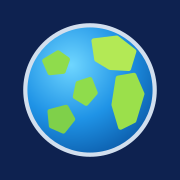
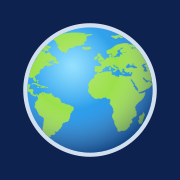
nuevo icono y pantalla de inicio

Changed region(s): [[0.1389, 0.1667, 0.8611, 0.8611]]

diff --git a/src/data/land.ts b/src/data/land.ts
@@ -1,0 +1,2 @@
+// Generado por scripts/make-land.mjs. No lo edites a mano.
+export const LAND_PATH = "M112.3 143.9L113.6 144.5L115 144.7L114.5 145.2L113.6 145.3L113 144.9L112.7 145.3L111.9 145.6L110.8 145.5L110 145.2L109 145.1L107.7 144.5L106.7 144L105.3 142.8L106.2 143L107.6 143.7L108.9 144.1L109.4 143.6L109.7 142.9L110.7 142.5L111.4 142.6L111.8 143.1L112.3 143.9ZM121.5 141.1L122.3 141.6L122 141.9L120.6 142.2L120.2 141.9L119.3 142.3L118.8 141.9L120 141.3L120.9 141.5L121.5 141.1ZM250.3 139.7L248.7 139.8L248.7 139.2L248.9 138.8L248.9 138.6L249.6 138.9L250.5 139.1L250.6 139.3L250.3 139.7ZM325.4 130.8L326.4 131.1L326.9 131L327.7 130.8L328.3 130.9L328.4 132.1L328 132.4L327.9 133.2L327.6 132.9L326.9 133.6L326.7 133.6L326 133.5L325.4 132.7L325.3 132L324.7 131.2L324.7 130.7L325.4 130.8ZM353 130.9L354 130.9L354.2 131.8L353.2 133L353.1 133.9L351.5 134.2L350.6 135.9L349.8 136.4L348.4 136.6L346.7 136.2L347 135.1L348.3 134.1L349.7 133.6L350.5 133L351.6 131.8L352.1 131L352.8 130.5L353 130.9ZM354.6 126.2L355.3 127.2L356.8 127.9L358 127.6L358.3 128.6L357.2 129.1L356.9 130.1L356 131.3L355.2 131.7L355.2 130.5L353.8 129.5L354.6 128.8L354.7 127.4L354.3 126.5L353.1 125.2L352.6 124.5L353.6 125L354.3 125.3L354.6 126.2ZM347.1 112.2L346.7 112.4L346.2 112.1L345.5 111.7L344.8 111.1L344.2 110.4L344 110.1L344.5 110.1L345 110.5L345.5 110.8L345.8 111.1L346.6 111.7L347.1 112.2ZM358.4 107.3L358.7 107.6L358.6 108.2L357.9 108.3L357.4 108.2L357.3 107.7L357.7 107.4L358.1 107.5L358.4 107.3ZM359.4 106.8L358.7 107L358.6 106.6L359.1 106.4L359.4 106.4L360 106.1L360 106.6L359.4 106.8ZM0.1 106.5L0 106.6L0 106.1L0.2 106L0.1 106.5ZM347.8 106.5L347.5 106.6L347.2 106.2L347.2 105.9L347.8 106.5ZM347.1 104.9L347.3 105.7L347 105.6L346.8 105.7L346.6 105.4L346.6 104.6L347.1 104.9ZM230.1 103.6L230.2 104.8L230.4 105.7L229.9 106.5L229.4 108L229 109.1L228.5 110.5L227.9 112.4L227.5 113.8L227.1 114.9L226.3 115.2L225.4 115.6L224 115L223.7 113.6L223.3 112.8L223.4 111.3L224.4 110.1L224.2 109L224 107.4L224.4 106.2L225.5 106L226.3 105.8L226.9 105.2L227.7 104.6L227.9 103.7L228.8 103.1L229.2 102L229.8 102.9L230.1 103.6ZM323.6 103.8L323.9 104.5L324.9 104.6L325.3 105.4L325.5 106.3L326.2 107.8L326.4 109L327.5 109.5L328.2 110L328.7 110.6L329.3 111.3L329.7 112.3L330.5 112.6L330.9 113.5L331.6 114.1L332.9 115.3L333.1 116.1L333.1 117.3L333.6 118.1L333.5 119L333.1 120.4L332.9 121.6L332.5 122.6L331.7 123L331.3 123.8L330.7 125.2L330.1 126.4L330 127.4L328.3 127.8L327.4 128.2L326.3 129L325.5 128.6L325 127.9L323.6 128.8L322.7 128.5L321.6 128.3L320.6 128L320 127.4L319.6 126.1L318.1 125.6L318.2 124.4L317.7 125.1L316.8 125.3L317.5 124.1L317.8 122.9L317 123.8L316 124.9L315.2 124.5L314.6 123.2L313 122L311.3 121.5L309.5 121.6L308.2 121.9L307.1 122.3L306.1 122.2L305.1 122.7L304.2 123L303.7 123.9L302.8 123.9L301.3 123.8L299.9 124L299 124.5L298 125.1L296.6 125L295.6 124.4L295 123.6L295.7 122.9L295.7 121.6L295.2 120.6L295 119.5L294.6 118.5L294 117.3L293.5 116.5L293.4 115.6L294.2 116.3L293.7 115L293.5 113.8L293.8 113.1L294.1 111.8L295.5 111.5L296.7 110.7L298.2 110.4L299 110L299.8 110L300.9 109.7L301.7 108.7L302.3 107.8L303 106.4L303.4 107.3L303.8 106.1L304.9 105.1L305.7 104.5L306.6 104L307.8 104.3L308.4 104.9L309.6 105L309.9 103.6L310.6 102.5L311.7 102.3L312.6 102.1L311.8 101.3L313 101.4L314.4 102L315.3 102.2L316.3 102L316.7 102.9L316 103.3L315.8 104.2L315.5 105L316.3 105.6L317.1 105.9L318.3 106.8L319.1 107.1L320.2 107.7L321.1 106.8L321.4 105.8L321.7 105L321.5 103.7L321.8 102.7L321.9 101.9L322.1 101L322.9 101.8L323.5 102.8L323.6 103.8ZM342.1 100.5L342.4 100.8L341.7 100.8L341.3 100.2L341.9 100.4L342.1 100.5ZM300.7 100.2L300.3 100.3L299 99.6L299.9 99.4L300.4 99.7L300.8 100L300.7 100.2ZM340.9 99.9L340.5 99.9L339.8 99.8L339.6 99.6L339.7 99.2L340.4 99.4L340.7 99.6L340.9 99.9ZM341.7 99.6L341.5 99.8L340.8 98.9L340.6 98.3L340.9 98.3L341.3 99.1L341.7 99.6ZM304.4 100.1L303.6 100.4L303.5 100.2L303.6 99.9L304 99.3L305 98.9L305.1 98.7L305.9 98.4L306.6 98.4L307 98.3L307.3 98.4L307 98.7L305.9 99.1L305.1 99.4L304.4 100.1ZM297.9 98.1L298.3 98.4L298.9 98.3L299.1 98.7L298 98.9L297.3 99L296.7 99L297.1 98.5L297.6 98.4L297.9 98.1ZM302.9 98.1L302.8 98.6L301.3 98.9L299.9 98.8L299.9 98.4L300.7 98.2L301.3 98.5L302 98.5L302.9 98.1ZM339.9 98.3L339.9 98.5L339.1 98.1L338.6 97.8L338.2 97.4L338.4 97.3L338.8 97.6L339.6 98L339.9 98.3ZM337.5 97.3L337.3 97.4L336.9 97.2L336.5 96.8L336.5 96.6L337.1 97L337.5 97.3ZM288.6 96.8L290.5 96.9L290.8 96.5L292.6 96.9L293 97.6L294.5 97.8L295.7 98.4L294.6 98.8L293.5 98.3L292.6 98.4L291.5 98.3L290.6 98.1L289.4 97.7L288.7 97.6L288.3 97.8L286.5 97.4L286.3 96.9L285.4 96.9L286.1 95.9L287.3 96L288.1 96.3L288.5 96.4L288.6 96.8ZM314.7 96.2L314.2 96.9L314.1 96.1L314.3 95.8L314.5 95.4L314.7 95.7L314.7 96.2ZM335.9 96.8L335.6 96.9L335.2 96.5L334.7 95.9L334.5 95.1L334.7 95L334.8 95.3L335.1 95.6L335.5 96.2L336 96.5L335.9 96.8ZM332 95.5L331.5 95.6L331.3 95.8L330.8 96.1L330.2 96.3L329.7 96.3L328.9 96L328.3 95.7L328.4 95.4L329.3 95.6L329.8 95.5L330 95L330.1 95L330.2 95.5L330.8 95.5L331.1 95.1L331.6 94.8L331.5 94.2L332.1 94.1L332.3 94.3L332.3 94.9L332 95.5ZM307.2 93.5L306.9 93.8L306.2 93.6L306 93.2L307 93.1L307.2 93.5ZM310.5 93.1L310.8 93.9L310 93.4L309.2 93.4L308.6 93.4L307.9 93.4L308.1 92.8L309.4 92.8L310.5 93.1ZM333.1 94.5L332.8 94.8L332.6 94.2L332.4 93.8L332 93.5L331.4 93L330.7 92.7L330.9 92.5L331.5 92.8L331.8 93L332.2 93.2L332.6 93.7L333 94L333.1 94.5ZM314.1 91.2L314.4 92.8L315.5 93.4L316.3 92.3L317.4 91.7L318.3 91.7L319.2 92.1L319.9 92.4L321 92.6L322.7 93.3L324.6 93.9L325.3 94.4L326 95.5L327.6 96.1L327 96.7L328.1 98L328.7 99.1L330 99.7L330.8 100.3L330 100.7L328.9 100.3L327.9 100.1L327.1 99.5L326 98.1L324.7 97.6L323.9 97.9L323.4 99L322.6 99.3L321 99.1L320.1 98.3L319.1 98.1L317.6 98.4L318 97.6L318.4 96.2L317.9 95.4L316 94.5L315.2 94.5L313.7 93.5L313 94.1L312.8 93.3L312 92.8L313.1 92.5L312.2 92.2L310.9 91.4L311.9 90.7L314 90.8L314.1 91.2ZM305.2 88.6L304.4 89.6L302.7 89.6L301.1 89.6L300.2 89.8L300.9 91.4L303.3 90.6L302.4 91.5L301.5 91.9L302.5 93.2L303.2 94.7L302.6 95.6L302.7 94.5L301.7 94.9L300.9 93.6L301 92.6L300.4 94.1L300.4 95.5L299.4 95.4L299.7 94.5L299.5 93.5L298.8 92.8L299.3 91.4L299.8 89.8L300.9 88.7L301.7 89L302.9 89.1L304.1 89.1L305.1 88.4L305.2 88.6ZM308.7 88.9L308.6 89.7L308.1 89.6L308 90.3L308.4 90.8L308.1 90.9L307.7 90.3L307.4 89L307.6 88.2L307.9 87.8L308 88.4L308.6 88.5L308.7 88.9ZM285.8 95.9L284.7 95.9L283.9 95L282.6 94.2L281.4 92.8L280.9 92.1L280.1 90.7L279.3 89.8L279 89L278.6 88.2L277.7 87.5L277.2 86.7L276.4 86.1L275.4 85L277.5 84.8L278.4 85.7L279.1 86.4L280.6 87.9L281.7 87.9L282.5 88.6L283.1 89.4L283.8 89.9L283.4 90.7L284.4 91.1L284.9 92.3L286.1 93.1L285.9 94.3L285.8 95.9ZM297.9 88.2L299 89.1L297.8 89.2L297.5 90.8L296.6 91.5L296.5 92.5L296.1 94L294.9 94.1L293.8 93.4L292.1 93.5L291 93L290.2 92.9L290.1 91.6L289.1 90.5L289 89.6L289.1 88.7L289.7 88L290.4 88.3L291.4 87.3L293 86.9L293.7 86.1L294.2 85.5L295.5 84.6L296.2 83.9L296.7 83.1L297.6 83.6L298.3 84.3L299.2 84.6L298.4 85L297.9 85.9L297.3 86.8L298 87.7L297.9 88.2ZM306.4 81.6L306.5 82.2L306.5 82.8L306.2 83.7L305.8 82.7L305.4 83.2L305.7 84L305.4 84.4L304.2 83.8L303.9 83.1L304.2 82.6L303.6 82.2L303.3 82.6L302.8 82.5L302.1 83.1L301.9 82.8L302.3 82L302.9 81.7L303.5 81.3L303.8 81.8L304.6 81.5L304.8 81L305.5 81L305.4 80.2L306.2 80.7L306.3 81.2L306.4 81.6ZM261.2 83.8L260.3 84L259.9 83.2L259.7 81.8L260.1 80.2L260.8 80.7L261.3 81.4L261.8 82.5L261.6 83.5L261.2 83.8ZM119.1 79.9L118.2 80L118.1 79.9L118.3 79.6L118.3 79.2L118.9 79.1L119.1 79.1L119.1 79.9ZM304 79.7L303.6 80L303.3 80.7L303 81L302.4 80.3L302.6 80L302.8 79.7L302.9 79.1L303.5 79.1L303.3 79.7L304.1 78.8L304 79.7ZM298.5 80.7L297.2 81.6L297.7 80.9L298.4 80.3L299 79.6L299.5 78.6L299.7 79.4L299 80L298.5 80.7ZM301.9 78.1L302.5 78.4L303.1 78.4L303.1 78.8L302.6 79.3L302 79.6L302 79.1L302 78.6L301.9 78.1ZM305.5 77.8L305.8 79L305 78.7L305 79L305.3 79.6L304.8 79.9L304.8 79.2L304.5 79.1L304.3 78.5L304.9 78.6L304.9 78.2L304.3 77.4L305.2 77.5L305.5 77.8ZM301.5 76.9L301.3 77.8L300.8 77.3L300.3 76.5L301.2 76.6L301.5 76.9ZM301.3 71.5L302.2 71.5L302.5 72.9L302.3 73.7L301.5 74.9L301.7 75.7L302.7 75.7L304 76.2L304.2 77L303.3 77L302 76.2L301.1 76.4L301 75.5L300.1 75L299.9 73.6L300.4 72.4L300.7 71.5L301.3 71.5ZM114.4 71.8L114.2 72L113.4 72L112.8 72.1L112.8 71.6L112.9 71.5L113.7 71.5L114.2 71.6L114.4 71.8ZM103.1 72.1L102.8 72.3L102.2 72.1L101.7 71.8L101.8 71.5L102.2 71.5L102.4 71.5L103.1 71.6L103.6 71.8L103.8 72.1L103.1 72.1ZM107.4 70.1L108.3 70.3L109.2 70.1L110 70.4L110.8 70.7L111.7 71.4L110.8 71.6L109.9 71.8L109 71.7L108.3 72.2L107.6 71.8L106.5 71.8L105.5 71.7L106.6 71.5L107.7 71.3L107.2 70.5L107.4 70.1ZM290.3 71.3L289.5 71.8L288.7 71.5L288.6 70.6L289.1 70.2L290.2 69.9L290.8 69.9L291 70.3L290.6 70.7L290.3 71.3ZM24.5 70.9L24.3 71.1L24.1 70.9L24.1 70.7L23.9 70.3L24 70.2L24.1 70L24.1 69.8L24.1 69.7L24.2 69.8L24.6 69.9L24.8 70L24.9 70.1L25.2 70.5L24.8 70.8L24.5 70.9ZM23.9 69.4L23.6 69.4L23.4 69.2L23.3 69.1L23.4 69L23.7 69.1L24 69.2L23.9 69.4ZM23.2 68.8L23.2 68.9L22.7 68.9L22.7 68.8L23.2 68.8ZM22.3 68.7L22.2 68.7L21.9 68.7L21.7 68.5L21.7 68.4L22 68.3L22.1 68.3L22.3 68.7ZM20.7 68L20.5 68.1L20.2 67.9L20.3 67.9L20.4 67.8L20.6 67.8L20.7 68ZM100.3 67.2L101.7 67.5L102.9 68.3L103.8 68.8L105.1 69.3L105.8 69.7L105 70.1L103.7 70L102.2 70.1L102.9 69.6L101.9 69.3L101.3 68.4L99.8 68.2L98.2 67.8L97.2 67.3L96.5 67.8L95.5 68.2L95.8 67.4L96.7 67L97.7 66.8L98.6 66.9L100.3 67.2ZM102.5 66.2L102.2 66.3L102 65.7L101.6 65.4L101.8 64.8L102.1 64.8L102.5 65.7L102.5 66.2ZM301.2 67.2L300.7 68L300.2 67.2L300.1 66.4L300.7 65.5L301.5 64.7L302 65L301.8 65.6L301.2 67.2ZM102.2 63.4L101.1 63.6L101 63.2L101.5 63.1L102.2 63.2L102.2 63.4ZM103 63.4L102.8 64.1L102.6 64L102.7 63.5L102.2 63.1L102.2 63L103 63.4ZM314.6 55.9L314.8 56.2L314.2 56.8L313.8 56.5L313.3 56.7L313 57.3L312.4 57L312.4 56.5L312.9 55.9L313.5 56.1L313.9 55.6L314.6 55.9ZM214.6 54.3L213.9 54.8L214 54.9L214 55L213 55.4L212.5 55.3L212.3 54.9L212.7 54.9L212.8 54.9L212.9 54.6L213.7 54.6L214.6 54.3ZM203.7 54.3L204.2 54.6L205 54.6L205.8 54.6L205.7 54.8L206.3 54.7L206.2 55L204.7 55.1L204.7 54.9L203.5 54.7L203.7 54.3ZM195.5 51.8L195.2 52.6L195.3 52.9L195.1 53.4L194.3 53L193.8 52.9L192.4 52.4L192.6 51.9L193.7 52L194.8 51.9L195.5 51.8ZM189.2 48.8L189.8 49.5L189.7 50.8L189.2 50.8L188.8 51.1L188.4 50.8L188.4 49.6L188.2 49L188.7 49.1L189.2 48.8ZM321 52.9L320.6 53.7L320.3 54.9L319 55.3L317.2 55.4L315.8 56.5L315.1 55.4L313.3 55.6L312.2 56.1L311 56.1L312 56.9L311.3 58.5L310.2 58.6L310.4 57.7L309.4 56.7L310.4 56.4L310.9 55.8L311.9 55.3L312.6 54.6L314.6 54.3L315.7 54.5L316.7 52.7L317.4 53.2L318.9 52.2L320.1 50.6L319.9 49.4L321.4 48.6L321.9 50L321.9 50.8L321 51.8L321 52.9ZM189.6 47.8L189.2 48.6L188.8 48.4L188.5 47.7L188.7 47.4L189.4 47L189.6 47.8ZM323.9 45.8L324.6 46L325.3 45.6L325.5 46.7L324.1 47L323.2 48L321.6 47.3L321.1 48.4L320 48.4L319.8 47.4L320.3 46.7L321.4 46.6L321.7 45.2L322 44.4L323.1 45.5L323.9 45.8ZM116.3 43.4L117.1 43.6L118 43.6L117.5 44L117.1 44L115.9 43.6L115.6 43.3L116 43L116.3 43.4ZM118.2 40.9L117.7 40.9L116.4 40.6L115.5 40.1L115.8 40L117.1 40.3L118.2 40.7L118.2 40.9ZM56.5 41.5L56 41.6L54.3 41.2L54 40.8L53.1 40.5L53 40.2L51.9 40L51.6 39.5L51.6 39.2L52.7 39.4L53.3 39.6L54.2 39.7L54.6 40L55.1 40.5L56.1 40.9L56.5 41.5ZM123.9 39.3L123.2 40.2L124.5 40.1L125.1 40.7L126.5 40.8L127 41.8L126.9 43.3L125.8 43.2L126 42.4L124.6 43.1L123.7 42.4L122.7 42.4L120.7 42.4L121.2 41.7L121.6 40.9L122.6 39.3L123.3 38.7L124.1 38.4L123.9 39.3ZM47.3 36L48.3 35.9L48 37L48.8 37.8L48.4 37.8L47.8 37.4L47.5 36.9L46.9 36.6L46.8 36.1L46.8 35.8L47.3 36ZM323.6 39.3L324.7 41L323.2 40.7L322.6 42.1L323.5 43.2L323.5 43.9L322.7 43.3L322.1 44L321.9 43.2L322 42.2L321.9 41.1L322.1 40.4L322.2 39L321.6 38.1L321.7 36.7L322.6 36.2L322.2 35.8L322.7 35.6L322.9 36.3L323.3 37.3L323.2 38.2L323.6 39.3ZM173.2 37.7L171.4 38.3L170 38.2L170.8 37.1L170.3 36.1L171.7 35.3L172.4 34.9L173.3 34.8L174.3 35.4L173.8 36.1L174 36.8L173.2 37.7ZM192.7 34.4L192.1 35.2L191 34.6L190.9 34.2L192.4 33.9L192.7 34.4ZM27 32.9L26 33.3L25.5 33L25.3 32.5L26.2 32.2L26.8 32L27.4 32.1L27.9 32.4L27 32.9ZM177 31.4L175.9 32.4L176.9 32.3L178 32.3L177.8 33.1L176.9 34L177.9 34.1L178.9 35.4L180.2 36.7L181.7 37.3L181.1 38.2L180.6 39.2L179.2 39.2L177.5 39.5L176.4 39.8L175.5 39.7L174.2 39.8L175.7 38.8L176.6 38.6L175 38.4L175.8 37.7L175.4 36.5L176.9 36.6L176.4 35.4L175.2 35.2L175 34.2L173.9 33.2L174.2 32.2L175 31.4L175.8 31.4L177 31.4ZM14.4 30.1L13.8 30.2L13.2 30.1L12.5 29.8L13.5 29.6L14.3 29.7L14.4 30.1ZM100.7 27.8L100.3 28.4L99.9 28.3L99.6 28L99.7 27.9L100.1 27.6L100.5 27.6L100.7 27.8ZM98.1 27.3L96.9 27.8L96.2 27.8L96 27.5L96.7 27.1L98.1 27.1L98.1 27.3ZM8.3 26.2L8.9 26.4L9.5 26.3L10.3 26.6L11.3 26.7L11.2 26.8L10.5 27L9.7 26.8L9.3 26.6L8.4 26.7L8.2 26.6L8.3 26.2ZM94.8 24.3L95 24.8L95.5 24.6L96.1 24.9L97.2 25.2L98.4 25.5L98.4 26L99.2 25.9L99.9 26.3L99 26.6L97.5 26.3L96.9 25.9L95.9 26.4L94.5 26.9L94.1 26.4L92.8 26.5L93.6 26L93.8 25.2L94.1 24.3L94.8 24.3ZM165.5 23.5L165.3 24.2L166.4 24.9L165.1 25.6L162.2 26.3L161.3 26.5L160 26.4L157.2 26L158.2 25.6L156 25.1L157.8 24.9L157.8 24.6L155.7 24.4L156.3 23.7L157.9 23.6L159.4 24.3L160.9 23.7L162.2 24L163.8 23.5L165.5 23.5ZM104.1 22.9L103 22.9L102.8 22.4L103.2 21.9L104.1 21.7L104.9 22L104.9 22.4L104.8 22.6L104.1 22.9ZM5 23.4L5.7 23.7L5.4 22.9L8.1 23.1L10.1 24L9.1 24.5L7.5 24.6L7.4 25.5L7 25.7L6.1 25.7L5.3 25.4L4 25.1L3.8 24.6L2.8 24.5L1.6 24.6L1.1 24.3L1.3 23.9L0.1 24.1L0.6 24.6L0 25L0 21L2.4 21.8L5.1 22.8L5 23.4ZM84.4 20.9L83.7 21.2L82.4 20.9L81.6 21L80.2 20.6L81.1 20.3L81.8 19.9L82.8 20.1L83.4 20.3L83.7 20.5L84.4 20.9ZM360 19.2L358.9 19.2L358.7 18.9L360 18.5L360 19.2ZM1.3 19.1L0 19.2L0 18.5L0.1 18.4L1 18.4L2.4 18.7L2.3 18.9L1.3 19.1ZM89.5 20.5L89.4 21.5L90.8 20.7L92 21.4L92.6 22.8L93.7 22.1L94.4 21.2L94.5 20.1L95.9 20.2L97.4 20.3L98.7 20.8L98 21.9L98.7 22.4L96.7 23.6L95.3 23.7L94.2 23.4L93 24.8L91.5 25.9L90.1 26L89.3 26.4L88.1 27.2L86.8 28L85.8 29.1L85.4 29.9L85.3 31.1L86.8 31.2L87.2 32.2L87.7 32.9L89.1 32.7L91 33.1L92 33.5L92.7 34L93.9 34.3L95 34.7L96.6 34.8L97.7 34.9L97.6 35.7L97.9 36.7L98.6 37.8L100.1 38.8L100.9 38.5L101.4 37.4L100.9 35.9L100.2 35.3L101.8 34.9L102.9 34.2L103.5 33.5L102.7 31.9L101.5 31.2L102.7 30.1L102.2 29.2L101.9 27.7L104.3 27.7L105.3 27.8L106.2 27.6L107.1 27.9L108.3 28.5L110.4 28.9L110.4 29.8L110.7 31L111.6 31.2L112.4 31.8L113.8 31.2L114.8 30.1L115.4 29.7L116.2 30.6L117.5 31.8L118.6 33L119.5 34.2L120.4 34.8L122 35.1L123.1 36.2L124.2 36.7L124.3 37.9L123.6 38.2L121.2 38.9L120 39.8L118.3 39.9L116.1 39.7L114.6 39.7L113.6 39.8L112.8 40.5L111.5 40.9L110 42.3L108.9 43.2L109.7 43L111.3 41.7L113.4 40.9L114.9 40.8L115.8 41.3L114.9 41.9L115.2 43L115.5 43.8L116.8 44.3L118.5 44.1L119.5 43L120.2 44.1L119 44.7L116.7 45.3L115.8 45.7L114.6 46.5L113.8 45.5L115.6 44.7L114 44.7L112.9 44.9L112 45.7L110.9 46L109.9 46.3L109.3 47L109.5 48.2L108.1 48.7L107.1 48.8L106.3 49.1L107.8 48.9L106.7 49.4L105.7 49.5L105.1 51.1L104.5 50.5L104.9 51.2L104.6 52L104.1 52.8L103.8 51.7L103.7 50.8L103.7 51.9L103.7 53L104.3 54.4L103.6 55.2L102.6 55.5L101.9 56.1L100.9 56.5L99.7 57.5L98.7 58.6L98.7 60L99 60.8L99.5 61.5L99.9 63.1L99.9 64.2L99.3 64.9L98.7 64.4L97.8 63.3L97.3 62.5L97.3 61.4L96.3 60.1L94.9 60.4L94.2 59.8L92.5 59.7L91.6 59.6L90.4 59.8L90.8 60.7L89.8 60.9L88.4 60.3L87.5 60.4L86.2 60.3L85.3 60.5L84.4 61.3L83.4 61.7L82.6 62.6L82.7 63.8L82.5 65L82.2 67.1L82.3 68.1L82.8 69.4L83.5 70.1L84.1 71.2L85.2 71.4L86.5 71.6L88 71.3L89.2 70.7L89.5 69.3L90.4 68.7L91.5 68.5L92.3 68.5L93.2 68.7L92.6 69.7L92.4 71L92.2 71.7L91.8 72.5L91.6 73.5L91.1 74.1L91.9 74.3L93.1 74.2L94 74L94.8 74.1L95.6 74.2L96.6 74.7L96.8 75.7L96.5 76.4L96.5 77.6L96.3 78.4L96.6 79.6L97.5 80.4L98.2 81L99.1 81.1L100.1 80.7L101 80.4L101.9 80.8L102.6 81.3L103.9 80.7L104.5 79.4L105.7 78.9L106.6 78.8L107.4 78.3L108.2 77.6L108.6 78.5L108.4 79.6L108.3 80.9L109 80.1L108.6 79L109.8 78.6L110.1 77.8L111.1 78.6L111.8 79.1L112.7 79.5L113.8 79.4L115.1 79.9L115.7 79.4L116.9 79.3L118.1 79.3L117.3 79.6L118.4 80.1L119.2 80.6L119.3 81.4L120.2 81.6L121.5 82.7L122.5 83.7L124.1 84.2L125 84L126 84.2L127.1 84.6L128.2 85.4L128.9 86.3L129.5 88.1L130.1 89L129.3 89.8L131.4 90.2L131.4 91.2L132.2 90.6L133.4 90.9L135.1 91.6L135.4 92.7L136.6 92.4L138.5 92.9L140 92.9L141.5 93.7L142.8 94.8L143.5 95.1L144.4 95.1L145.1 96.7L144.9 99L144.4 99.6L143 101L142.3 102.2L141.6 103L141 103.8L141.1 105.7L140.8 107.2L140.4 108.3L140.2 109.6L139.2 110.9L139.1 111.9L138.2 112.4L136.9 113L135.4 113.4L134.6 113.8L133.5 114.1L132.4 114.9L131.5 115.9L131.5 117.2L131.3 118.2L130.4 119.2L129.3 121L128.4 121.8L127.7 122.2L127.3 123.2L126.6 123.8L125.1 125L123.8 124.9L122.9 124.4L121.6 123.9L122.8 125.3L123.3 126.4L122.3 128.2L120.8 128.7L118.8 128.9L117.7 128.8L117.7 130.2L117.3 131L116.2 131.2L115.3 130.8L115 132.1L116.2 132L115.6 132.9L114.8 133.5L114.7 134.5L113.5 135L112.7 135.6L112.4 136.3L113.4 137L114.4 137.2L114 138.1L112.8 138.7L112.2 139.9L111.3 140.3L111.2 141.8L111.8 142.3L110.5 142.3L109.2 142.9L109 143.8L107.4 143.5L106.3 142.8L105.1 142.3L105 141L104.5 140.4L104.4 138.7L104.8 137.7L105.9 136.9L104.4 136.6L105.3 135.8L105.6 134.1L106.8 134.5L107.3 132.4L106.3 133.4L106 131.8L106.3 129.9L106.8 129.3L106.5 128.3L106.4 127.2L107.4 125.5L108.1 123.9L108.6 122.4L108.3 120.9L108.6 120.1L108.5 118.9L109.1 117.6L109.3 115.7L109.6 113.6L109.9 111.4L109.8 109.8L109.6 108.3L108.6 107.8L106.6 106.4L104.8 105.3L104 104.6L103.6 103.8L102.9 102.2L101.9 100.4L101 98.4L100.2 97.2L99.5 96.5L98.8 96.1L98.6 94.7L99.7 93.4L100.2 92.7L99 92.2L99.1 91.1L99.6 90.3L99.9 89.2L101.1 88.6L101.3 87.7L102.1 87.3L102.9 86.2L102.7 85.3L102.5 84.4L102.5 83.3L101.8 82.5L101.8 81.7L100.9 81L99.8 81.7L100 82.5L99.1 82.8L98.3 81.9L97.2 81.7L96.3 81.3L95.7 80.5L95 79.9L94.2 79.9L94.3 78.9L93.5 78.2L92.8 77.5L92.5 76.7L91.5 76.8L90.7 76.5L89.9 76.3L88.8 76.1L87.8 75.5L86.6 74.4L85.3 73.8L83.9 74.2L82.7 74.1L81.1 73.4L79.2 72.8L78.3 72.4L77.5 72L76.5 71.7L75 70.7L74.5 70.1L74.5 69.2L74.4 68.1L74 67.2L73.1 66.2L72.1 65.5L70.7 64.4L70.7 63.6L69.6 62.8L68.8 62.1L67.8 61L67.2 60L66.8 59.2L66.1 58.4L65.2 58.2L65.2 59.1L65.7 60.2L66.4 60.9L67 61.6L67.5 62.5L68.4 63.3L68.7 64.3L69.3 65.2L70.2 66.2L70.1 67.2L69.1 66L68.3 65.5L67.9 64.5L67.2 63.7L66.5 63.2L65.5 62.9L64.9 62.3L65.8 61.9L65.1 60.7L64.1 59.8L63.3 58.4L62.9 57.5L62.1 56.4L60.9 55.9L59.6 55.6L59.3 54.8L58.3 53.8L57.5 52.4L56.3 51L56.1 50.2L55.8 48.9L55.8 48L55.5 47.2L55.9 46.3L56.1 44.5L55.9 43.1L55.6 42.3L56.9 42L57.4 42.9L57.5 41.8L57.2 41L55.1 40L54.4 39.6L52.6 39.2L52 38.3L50.9 37.2L50.7 36.4L49.5 35.7L48.9 34.8L48 34.5L47.8 33.6L46.5 32.8L45.9 31.9L45 31.8L43.4 31.8L42.2 31.5L40.1 30.5L39.2 30.3L37.4 29.9L36 30L34.1 29.5L32.9 29.1L31.8 29.3L31.4 30.1L30.3 30.3L29.4 30.6L28.3 30.8L28.6 29.3L29.7 29L28.1 29.3L27.4 29.9L26 30.6L26.7 31.1L25.8 31.9L24.7 32.3L23.7 32.6L21.9 33.5L20.4 34.4L18.8 34.6L17.8 35L16.9 35.3L15.2 35.6L16.2 35L17.1 34.7L18.2 34.1L19.4 34L21.3 33L22.3 32.4L23 31.1L21.8 31.4L20.9 31.6L20.3 31.1L18.6 31.3L17.9 30.7L17.5 30L16.2 30.2L15.3 29.7L14.6 28.9L13.9 28.5L15.1 27.4L16.2 26.8L17.7 26.5L19.2 26.2L18.5 25.6L19.2 25.2L17.5 25.4L16.5 25.4L15 25.6L13.6 25.3L11.9 24.3L13.3 23.9L15.5 23.4L16.3 23.4L18.3 23.9L17.5 23.3L16.3 22.9L15.6 22.4L14.6 22L13.2 21.6L15.6 21.1L16.8 20.6L18.1 19.7L19.1 19.6L21 19.1L21.9 19.2L23.4 18.6L24.9 18.9L25.7 19.3L27.8 19.2L29.3 19.6L30.3 19.5L32.4 19.8L34.3 19.9L36.4 19.8L37.9 20.1L39 20.3L40.9 20.5L42.5 21L43.5 21.1L44.4 20.7L45.6 20.4L47.1 20.5L48.6 20.1L50.2 19.8L50.9 20.2L51.9 19.5L54.2 20.5L55.6 19.8L56.9 20.4L58.5 20.2L60.1 20.6L62.4 21L63.8 21.2L64.8 21.1L66.1 21.6L64.7 22.1L66.5 22.3L69.2 22.2L70.1 22L71.1 22.6L72.2 22.1L71.2 21.7L73 21.3L73.8 21.2L74.7 21.4L75.7 22L76.8 21.9L78.5 22.4L80.1 22.2L81.6 22.2L82.3 21.4L83.9 21.8L83.9 22.7L84.5 21.9L85.3 21.9L85.8 20.9L84.7 20.3L83.5 19.9L83.6 18.8L84.8 18.1L86.1 18.2L87.1 18.7L88.5 19.8L87.6 20.3L89.5 20.5ZM65.8 16.9L67.6 17L68.9 17.5L70.1 17L71 17.4L71.8 18.3L71.6 16.9L72.5 16.8L73.5 16.9L74.6 17.3L75.2 18.3L77.2 19.5L79 20L77.3 20.5L77.6 21.2L75.8 21.1L74 20.8L72.9 20.9L71 21.2L68 21.4L66.7 21.5L64.8 20.7L63.9 20.8L62.7 20L64.9 19.8L66.3 19.8L67.6 19.6L65.7 19.4L63.5 19.5L62.1 19.5L63.9 18.7L62.3 18.7L60.6 18.4L61.4 17.7L62.1 17.3L64.8 16.7L65.8 16.9ZM75.5 16.6L74.6 17.2L73.1 16.5L73.4 16.4L74.7 16.4L75.5 16.6ZM103.7 16.9L103.7 17.2L102.7 17.1L101.6 17.1L100.5 17.3L100.2 17.2L99.1 16.7L99.2 16.3L99.6 16.2L101.9 16.3L103.7 16.9ZM93.4 16.8L94.2 17.5L95.1 16.7L97.7 16.2L99.4 17.3L101.2 17.6L102.2 17.3L104.4 17.8L105.8 18.2L107.8 18.4L108.8 19.1L111.2 19.5L112.1 19.9L113 20.8L111.2 21.3L113.6 21.9L115.1 22.2L116.6 23.1L118.1 23.1L116.1 25L114.9 24.6L113.3 23.6L112 23.7L112.9 24.9L114.3 25.4L115.3 26.6L113.7 27.1L111.2 26.3L112.6 27.1L113.7 27.7L111.1 27.7L109 27.1L107.8 26.6L106.6 25.8L105.2 25.3L102.3 25.8L101.4 25.4L102.1 24.7L104 24.7L106 24.5L106.1 23.7L107.3 22.7L106.7 21.9L105.2 21.4L103.1 21.1L102.7 20.2L101.8 20.2L101 19.8L98.7 20.3L95.1 20L92.9 19.7L91.3 19.6L90.5 19.2L91.5 18.8L90.1 18.8L89.8 17.8L90.6 16.9L91.6 16.5L94.2 16.2L93.4 16.8ZM79.6 16.2L80.8 16.4L82.6 16.2L82.9 16.5L81.9 17L83.5 17.4L83.3 18.3L81.6 18.7L80.7 18.6L80 18.3L77.5 17.5L77.5 17.2L79.6 17.3L78.5 16.6L79.6 16.2ZM323.6 16.8L322.1 16.8L320 16.7L319.9 16.6L320.8 16.2L322.1 16.1L323.5 16.5L323.6 16.8ZM86.8 17.2L85.7 18L84.6 17.9L84 17.1L84 16.6L84.5 16.1L85.5 15.9L87.6 15.9L89.5 16.1L88 17L86.8 17.2ZM59.5 18.6L56.9 19.1L56.4 18.7L54.1 18.1L54.4 17.8L55.2 17L56.1 16.3L55.1 15.7L58.5 15.6L59.9 15.8L62.4 15.8L63.4 16.1L64.5 16.5L63.2 16.8L60.8 17.5L59.5 18.2L59.5 18.6ZM330.7 14.9L329.6 15.3L328 15.2L326.1 14.8L326.4 14.5L328.2 14.7L330.7 14.9ZM86.4 15L85.8 15.4L84.4 15.3L83.2 15.1L83.7 14.6L85.1 14.4L86 14.7L86.4 15ZM325.1 14.4L324.3 15.2L320.6 15.2L319 15.4L317 14.7L317.5 14.1L318.8 13.9L321.5 13.9L325.1 14.4ZM81.5 13.3L82.3 13.7L82.3 14.3L81.8 15L80.2 15.1L79.1 14.9L79.1 14.4L77.5 14.4L77.4 13.7L78.5 13.7L80 13.4L81.4 13.4L81.5 13.3ZM71.8 13.8L72.2 14.2L73.1 14L74.1 14L74.3 14.5L73.7 15L70.3 15.2L67.8 15.6L66.3 15.6L66.1 15.3L68.2 14.8L63.7 15L62.3 14.8L63.7 13.8L64.6 13.5L67.4 13.9L69.2 14.5L70.9 14.5L69.5 13.6L70.4 13.2L71.5 13.3L71.8 13.8ZM237.5 19.3L236.9 19.4L233.7 19.2L233.4 18.8L231.6 18.5L231.5 18L232.5 17.8L232.4 17.2L234.4 16.4L233.5 16.3L235.9 15.4L235.6 14.9L237.9 14.4L241.2 13.7L244.5 13.6L246.2 13.2L248.2 13.1L248.9 13.5L248.2 13.8L244.6 14.3L241.6 14.7L238.5 15.7L237 16.7L235.4 17.6L235.6 18.5L237.5 19.3ZM85.3 12.9L86.4 13.2L88.4 13.2L89.3 13.6L89 13.9L90.2 14.2L90.8 14.4L92.2 14.4L93.6 14.5L95.2 14.3L97.2 14.2L98.9 14.3L99.9 14.7L100.2 15.1L99.5 15.3L98.1 15.6L96.8 15.4L93.9 15.6L91.8 15.6L90.2 15.5L87.6 15.2L87.2 14.6L87.1 14.1L86.1 13.7L84 13.6L82.9 13.2L83.3 12.8L85.3 12.9ZM63.8 12.4L63.7 13.1L62.9 13.5L62 13.5L60.1 13.9L58.5 14.1L57.1 13.9L58.8 13.1L60.9 12.5L62.4 12.5L63.8 12.4ZM287 13L288.2 13.3L291.1 13.3L293.3 13.8L294.1 14.2L292.8 15L290.2 15.5L289.4 15.8L290.6 16L292.1 16.2L293 16L293.5 16.7L295.6 16.2L298.8 16.4L303.2 17L305.4 16.4L307 16.4L308.6 17L308.5 18L309.7 18.8L311.3 19.2L312.3 18.2L313.9 18.6L315.6 18.3L317.5 18.7L319.9 18.5L319.1 17.6L320.5 17.2L329.5 17.8L330.4 18.4L333 19.2L337 19L339 19.1L339.8 19.5L340.9 20.6L342.3 20.4L344.1 20.3L345.9 20.5L347.8 20.4L349.6 21.3L350.8 21L350 20.3L353.6 20.2L355.7 20.1L358.6 20.6L360 21L360 25L358.7 25.5L357.4 25.4L358.3 25.9L358.9 26.7L359.5 27.4L357.4 27.5L354.6 28.2L353.7 28.3L352.2 29L350.7 29.7L348.9 29.4L346.3 30.2L344.9 30.3L343.5 30.1L342 31.8L343.2 32.4L343.1 33.8L342.1 33.9L341.7 34.7L340.4 35.7L340 36.8L338.5 37L338.2 38.1L336.8 39L336 36.8L335.4 34.6L335.9 33.2L336.8 32.6L338.4 31.9L340.2 30.7L341.9 29.7L343.7 28.9L344.5 27.4L343.3 27.5L342.7 28.4L340.1 29.5L339.3 28.2L336.7 28.6L334.2 30.2L335 30.9L332.8 31.1L331.3 31.2L329.8 30.3L328.5 30.8L325.5 30.7L322.2 31L319 32.9L315.1 35.3L316.7 35.4L318.2 36.2L318.8 35.7L319.9 35.8L321.3 36.9L321.4 37.8L320.6 38.8L320.5 40L320.1 41.6L318.6 43L316.9 44.9L315.5 46L314.9 46.6L313.5 47.2L312.3 46.7L310.9 47.4L310 48.1L309.7 49.1L309 49.5L308 50L307.5 50.7L308.3 51.4L309.2 52.6L309.5 54.4L308.2 55.1L307.4 55.5L306.5 55.6L306.6 54.3L306.1 53.3L306.2 52.3L305.3 52.3L305 51.5L305.4 50.6L304.3 50.1L302.9 50.4L302.1 50.8L301.1 51.1L301.4 50.2L302.2 49.6L300.8 49.4L299.6 50.1L299 50.7L298 50.8L298.1 51.9L298.9 52.1L299.7 52.8L300.8 52.1L301.7 52.5L302.5 53.1L301.1 53.3L299.7 54.4L299.2 55.1L300.2 55.6L300.6 56.6L301.2 57.5L301.9 58.3L301.3 59.3L302.1 60.2L301.9 61L301.7 61.8L300.4 62.9L299.6 64.3L298.7 65.5L297.3 66.4L295.9 67.2L294.8 67.3L293.8 67.5L291.8 68.4L290.8 68.6L290.4 69.7L289.6 69L288.5 68.3L286.7 69.3L285.9 70.2L286.4 72L287.4 73.3L288.3 73.9L288.9 74.7L289.3 76.6L289.2 78.3L288.4 79L287.2 79.6L286.4 80.5L285.2 81.4L285.1 80.1L284.3 79.5L283.5 79.4L282.6 77.8L281.7 77.4L280.8 77.4L280.1 76.6L280 77.7L279.5 79.2L279.2 80L279.9 80.8L280.3 81.7L280.5 82.6L281.6 83.3L282.4 83.9L283 84.5L283.4 85.8L283.5 87.2L284.2 88.4L283.5 88.8L282.6 88L281.4 87.2L280.7 86.1L280.6 85.2L280.3 84L279.7 83.2L279 82.1L278.2 81.6L278.6 80.1L278.8 78.6L278.5 76.9L277.8 75.2L277.6 73.9L277.2 73.1L276.5 73.6L275.4 74.3L274.2 74L274.5 72.7L274.3 71.8L273.5 70.6L272.4 69.3L272 68.3L271.4 67.2L270.5 67.2L270.3 68.2L269.4 68L268.2 68.3L267 68.5L266.5 69.8L265.1 70.5L263.9 71.7L263.2 72.3L262.2 73L261.7 73.7L260.8 74L260 74.9L260.2 76.2L260.3 77L259.9 77.9L259.9 79.6L258.9 80.5L258.3 81.1L257.5 82L256.6 81.1L256.1 79.7L255.7 78.7L254.9 77.3L254.6 76L253.5 74L253.1 72.1L252.8 70.8L252.8 69.6L252.6 68.6L251.2 69.2L249.2 67.9L248.2 66.3L247.1 65.3L246.4 64.6L244.5 64.8L242.9 64.8L241.5 64.9L239.6 64.6L238.5 64.4L237.4 64.3L237 63L235.7 63L234.7 63.5L233.5 63.2L232.5 62.4L231.5 62.1L230.9 61.2L230.1 59.9L228.9 59.7L228 60L228.4 61.4L228.8 62.3L229.5 62.9L230.2 63.3L230.2 64.4L230.8 65.2L231 64L231.6 64.8L231.6 65.8L232.6 65.8L233.4 65.8L234.7 65.2L235.4 64.6L236.1 63.9L236.4 65.1L236.8 65.8L238.1 66.3L239.2 67L239.8 67.7L239.3 68.6L238.5 69.6L237.7 70.3L237.2 71.1L236.5 71.9L235.7 72.1L234.8 73L233.6 73.3L232.4 73.6L232.2 74.4L231.2 74.8L229.6 75.3L228.7 76L227.4 76.4L225.9 76.7L225.1 77L224.2 77.4L223.2 76.8L223.1 75.9L222.6 74.8L222.8 73.7L222.3 72.9L221.8 72.2L221.2 71.3L220.9 70.5L220.2 69.8L219.1 68.7L219.1 67.4L218.5 66.3L217.5 65.7L217.2 64.9L216.6 64.2L216.2 63.4L215.6 62.6L215.1 61.9L214.8 61L214.2 62.2L213.1 61.6L212.4 60.1L212.7 61.3L213.3 62.3L214.1 63.9L214.8 65L215.7 66.1L215.5 66.9L216.7 67.8L217.2 69L217.1 70.2L217.5 71.4L218.4 72L219 73.2L219.3 74.1L221.2 75.5L222.3 76.7L223.1 77.3L222.7 78.3L223.5 78.7L224.1 79.6L225.6 79.3L226.6 79.2L227.5 78.9L228.4 78.6L229.3 78.6L230.3 78.3L231.1 78L231 78.8L230.8 79.7L230.6 80.8L230.1 81.9L229.5 83.2L228.6 84.7L227.7 85.8L226.6 87.1L225.6 88L224.1 88.9L223.1 89.7L222 90.9L221.6 91.7L220.9 92.1L220.1 93.3L219.6 94.3L218.7 95.9L219.4 96.8L219.2 97.7L219.5 99.1L219.9 100.1L220.5 100.8L220.4 101.8L220.6 102.6L220.6 104.2L220.5 105.4L219.5 106.7L218.5 107.1L217.4 107.6L216.3 108.7L215.2 109.6L214.7 110.5L215.2 111.3L215.4 112.1L215.5 113.1L215.5 114.1L214.2 114.8L213 115.4L212.7 116.1L212.6 117.5L212.5 118.3L211.5 119.3L210.9 119.9L210.1 121.1L208.9 122.2L208.2 122.8L207.5 123.2L206.4 123.6L205.2 123.8L203.6 123.8L202.6 123.9L201.5 124.3L200.7 124.4L199.6 124.8L198.9 124.4L198.2 123.9L197.9 122.6L198.2 121.7L197.6 120.7L197.1 119.9L196.3 118.6L195.6 117.8L195.2 117.1L195 116.1L194.4 113.9L194.4 112.7L193.9 111.7L193.4 110.9L192.8 109.7L191.8 108.1L191.6 106.7L191.8 105.8L192.1 104.9L192.5 103.5L193.3 102.5L193.7 101.3L193.4 100.4L192.9 99.2L192.9 97.6L192.2 96.3L191.9 95L191.1 94L190.1 93L189.4 92.1L188.8 91.1L189.3 89.7L189.3 88.8L189.6 87.7L189.8 86.9L188.9 86.1L188.5 85.2L187.5 85.6L185.9 85.7L185.4 85.1L184.3 83.7L182.7 83.7L181.9 83.9L181.1 84.1L179.5 84.7L178 85.3L177.1 85L176 84.8L174.2 85L172.5 85.7L171 85.2L170.1 84.4L169.2 83.9L168.6 83.2L167.6 82.7L166.9 81.8L166.3 80.5L165.7 80L165.2 79.1L164.3 78.5L163.7 78L163.2 76.8L162.9 75.6L163.3 74.4L163.5 73.3L163.9 71.9L163.7 70.9L163.7 69.9L162.9 69L163 68.1L163.7 67.3L164 66.3L164.6 65.6L165.2 64.9L165.6 63.7L166.9 62.4L168.3 61.9L169.1 61.2L170.4 60.1L170.2 58.8L170.6 58L171.3 56.8L172.3 56.3L173.1 55.9L173.8 54.9L174.8 54.2L176.4 54.6L177.4 54.8L178.8 54.3L179.9 54.1L181.5 53.4L183.2 53.2L184.8 53.1L186.3 52.9L187.3 52.9L188.4 53.1L189.5 52.6L190.2 53.3L191 52.9L190.6 53.6L190.8 55.2L190.1 55.7L190.9 56.2L191.5 56.9L192.7 57.2L193.9 57.3L195.2 57.7L195.7 58.6L196.6 58.8L198 59.2L199.1 59.7L200.1 59L199.8 58.2L200.9 57.3L202.9 57.4L203.6 57.8L204.9 58.1L206.5 58.4L207.5 58.7L208.5 59L209.7 58.8L211 58.4L212 59.1L213 59L214.3 58.8L214.8 57.9L215.1 56.9L215.5 56.1L216 55.4L215.9 54.6L215.8 53.7L214.7 53.2L214 53.8L212.5 53.9L211.7 53.4L210.6 53.3L209.7 53.9L208.7 53.3L207.6 53.3L207 52.3L206.3 51.8L206.8 51L207.3 49.6L208.8 49.5L209.2 48.8L211.1 48.9L212.3 48.3L213.5 48L215.2 48L216.9 48.7L218.3 49.1L219.5 48.9L220.4 49L221.6 48.5L221.5 47.4L220.3 46.9L218.7 45.7L217.5 45.3L216.7 44.8L218.2 43.8L219.1 43L218.2 42.9L217.4 43L215.8 43.4L215 43.7L215.5 44.6L216.5 44.5L215.2 45.1L213.9 45.6L212.5 44.7L213.6 44.1L211.7 43.7L210.7 43.4L209.6 44.7L208.8 45.1L208.6 46.3L207.7 47.4L208.1 48.4L209 48.7L207.6 49L206.4 49.8L205.4 49.1L203.7 49.3L204.4 49.9L203.3 50L203 51L204 51.8L203.1 52.1L203.2 53.6L201.7 53.2L201.3 52.4L200.7 51.2L200.2 50.4L199.4 49.7L199.4 48.6L198.9 47.7L197.5 47.1L196 46.5L195.2 45.8L194.9 44.9L194 45.2L193.1 44.3L192.3 44.6L192.6 45.9L193.5 46.4L194 47.2L195.1 48L196.2 48.3L196.8 48.8L198.4 49.6L196.9 49.6L197.2 50.6L196.1 52L196.1 51L195.4 50L194.7 49.4L193.6 48.8L192.1 48.3L191.2 47.6L190.5 47.1L190.2 46.1L188.9 45.6L187.9 46.2L186.5 46.9L184.6 46.6L183.1 46.9L183 48.1L182.1 48.8L180.8 49L180.1 49.9L179.7 50.7L179.5 51.7L178.6 52.6L177.9 53.3L176.6 53.3L175.6 53.3L174.6 54.1L173.8 53.6L172.5 52.9L171.6 53L171.2 51.7L170.5 51.3L171 50.2L171.2 49.2L171 48.5L171 47.4L172 46.3L173.2 46.4L174.6 46.4L175.7 46.6L176.5 46.5L178.1 46.6L178.8 44L177.8 42.9L177 42.4L175.5 42L176.7 41.1L178.4 41.4L178.1 40.2L179 40.7L181.3 39.9L181.6 39.1L182.5 38.9L183.3 38.7L184.7 36.9L186.1 36.5L186.9 36.5L187.9 36.3L188.8 36L188.5 35L188.1 33.5L189.4 32.8L190.6 32.3L190.3 33.1L190.7 33.9L189.7 34.5L189.9 35.4L191 35.6L192 35.8L193.6 35.9L194.8 35.9L196.4 35.5L197.6 35.1L198.6 35.3L199.7 35.6L201.3 34.8L201.1 34L201.6 32.6L202.5 32.2L203.3 33L204.1 33L204.4 31.6L203.4 31.4L204.6 30.5L205.9 30.4L206.9 30.6L208 30.5L209.1 30L208.1 29.5L206.3 29.6L204.5 29.9L202.9 30.2L201.3 29.3L201.5 28.3L201.1 27.4L202.4 26.2L204.7 25.1L205.3 24.5L203.9 24L202.2 24.3L201.2 25L199.8 26.4L197.8 27.3L197.1 28.7L197.8 29.4L198.8 29.9L197.9 31L196.8 31.3L196.4 33L195.9 33.9L194.7 33.8L194.1 34.6L192.9 34.6L192.6 33.7L191.8 32.6L191 31.1L190.4 30.5L188.4 31.7L187 31.9L185.7 31.4L185.3 30.3L185 28L185.9 27.4L188.6 26.5L190.5 25.5L192.4 24.1L194.8 22.2L196.4 21.4L199.2 20.2L201.4 19.7L203 19.8L204.5 19L206.4 19L208.2 18.8L211.3 19.5L210 19.8L211.1 20.4L212.1 20.1L213.8 20.7L216.5 20.9L220.3 22.1L221.1 22.5L220 23.7L218.4 24L213.9 23.2L214.8 24.1L214.9 25.6L216.2 25.9L217 26.2L216.5 25.2L219.6 25.5L220.4 25.2L219.8 24.5L222.1 23.5L223 23.6L223.9 23.9L224.5 23.2L223.7 22.6L223.5 21.4L226.3 21.7L226.8 22.3L225.6 22.4L226.3 23.3L227.9 23.1L230.2 22L233.7 21.1L234.7 21.9L237.3 21.5L238.8 21.1L239.9 21.7L241.1 21.1L240 20.5L243.5 20.5L244.9 20.8L248.5 21.9L249.2 21.4L248.2 20.9L246.9 20.5L246.7 19.3L248.5 18.1L249.2 17.2L252.6 17.2L251.8 18.6L252.8 19.6L252.6 21L253.7 21.6L251.3 23.7L252.4 23.8L253.9 23.2L255.1 22.2L254.5 21.7L254.9 21L253.8 20.9L254.4 19.4L253.1 18.6L254.9 17.9L255.7 17.7L255.3 18.7L256.4 18.8L255.9 18.1L257.6 17.7L259.7 17.7L261.5 18.2L260.6 17.4L260.5 16.4L262.3 16.1L264.7 16.2L266.8 16.1L266 15.5L267.2 14.9L268.3 14.9L270.3 14.4L272.9 14.2L275.9 13.9L276.7 14.1L278.9 13.6L280.8 13.6L282 12.7L284.4 12.3L286.1 12.6L284.7 12.9L287 13ZM229.1 48.7L229.6 49.4L230.4 49.7L229.6 49.8L229.2 51L228.9 51.7L229.2 52.4L230.1 52.6L230.8 53.1L232.3 53.3L233.8 53L233.7 52.1L233.9 51L233.1 50.7L232.7 50L232.9 49.1L233.9 49.4L234.7 49L234 48.4L232.9 48.1L232.5 47.2L231.3 46.9L230.9 46L230.3 45.4L231.3 45.5L232.2 44.6L233 44.7L233.2 43.8L232 43.2L231.2 43L230 43.4L229.1 43.6L227.7 44.4L226.7 45.4L227.6 46.3L228.6 48.2L229.1 48.7ZM86.2 12.5L85.7 12.5L83.8 12.4L83.6 12.2L85.6 12.2L86.3 12.4L86.2 12.5ZM69.8 12.3L67.9 12.6L66.5 12.3L67.3 11.9L68.7 11.8L70.1 12L69.8 12.3ZM204.7 12.1L202.5 12.6L200.7 12.3L201.4 12.1L200.8 11.7L202.9 11.5L203.3 11.9L204.7 12.1ZM70.3 11.4L69.1 11.6L67.5 11.6L67.5 11.4L68.5 11.2L69 11.2L70.3 11.4ZM84.2 11.9L82.7 12.1L81.9 11.9L81.4 11.5L81.4 11.1L82.7 11.2L83.2 11.2L84.4 11.6L84.2 11.9ZM79.9 11.7L80.3 12.1L78.7 12L77.1 11.7L74.8 11.6L75.8 11.3L74.6 11.1L74.5 10.7L76.5 10.8L79.2 11.2L79.9 11.7ZM285.1 11.7L279.4 12.1L281.3 10.8L282.1 10.7L282.8 10.7L285.4 11.3L285.1 11.7ZM198.3 10.3L201.5 11L199 11.4L198.5 12.2L197.6 12.4L197.1 13.2L195.9 13.2L193.8 12.6L194.7 12.3L193.2 12L191.2 11.1L190.4 10.3L193.2 10L193.7 10.3L195.1 10.3L195.5 10L197 9.9L198.3 10.3ZM205.4 9.6L207.4 9.9L205.9 10.5L203 10.6L200.1 10.4L199.9 10.2L198.5 10.1L197.4 9.7L200.5 9.4L201.9 9.6L202.9 9.3L205.4 9.6ZM231.1 9.5L229.8 9.6L228.9 9.7L228.8 9.8L227.6 10L226.5 9.8L227.1 9.4L224.8 9.4L226.8 9.2L228.3 9.2L228.5 9.5L229.1 9.2L230 9.1L231.5 9.3L231.1 9.5ZM279.9 11.1L277.8 11.2L275 11L273.3 10.6L272.5 9.9L271.2 9.7L273.8 9L275.9 8.7L277.9 9.3L280.2 10.2L279.9 11.1ZM93 10.3L94.2 10.7L92.8 11L91 11.7L89.2 11.8L87.1 11.7L86 11.2L86.1 10.9L86.9 10.6L85 10.6L83.9 10.3L83.3 9.8L84 9.4L84.7 9.1L85.7 9L85.3 8.8L87.6 8.7L88.9 9.3L90.6 9.5L92.2 9.7L93 10.3ZM111.5 6.9L114.2 7L116.3 7.1L118.2 7.4L115.7 8.1L113.2 8.3L112.3 8.5L114.5 8.5L112.2 9.1L110.5 9.4L108.8 10.2L106.8 10.4L103.1 10.7L104.5 10.8L103.7 11.8L102.1 12.1L100.2 12.8L102.1 13L99.4 13.8L96.8 13.5L93.9 13.7L92.4 13.6L90.5 13.5L92.2 12.8L91.7 12.1L95 12.5L93.7 11.8L92 11.6L92.8 11.2L94.6 11L93.5 10.3L95.8 9.8L98.2 9.5L95.9 9.4L92.4 9.5L90.6 9.1L89.8 8.7L88.6 8.4L89.9 7.9L91.1 7.9L93 7.7L94.5 7.3L95.7 7.4L96.8 7.7L97.6 7.1L98.9 7L100.7 6.9L103.8 6.8L107.2 6.8L109.3 6.8L111.5 6.9ZM152.9 6.5L159.2 7.3L157.3 7.7L153.5 7.7L148.1 7.8L152.1 7.9L155.2 8.2L157.1 7.9L157.9 8.3L156.8 8.8L159.4 8.5L164.2 8.1L167.2 8.3L163.7 9.4L160 9.8L162.3 9.9L161.1 10.6L160.3 11.2L160.3 12.4L161.5 13L160 13.1L158.3 13.4L160.2 13.9L160.4 14.8L159.3 14.8L160.6 15.7L158.4 15.8L159.6 16.2L157.8 16.7L156.4 16.7L157.7 17.4L155.7 17.4L156.6 17.9L157.9 18.5L158.2 19.3L156.5 19.5L155.7 19.1L154.5 18.6L153.6 19.8L156.3 19.8L157.7 19.9L155 20.7L152.3 21.5L149.3 21.9L148.2 21.9L147.2 22.3L145.8 23.3L143.6 24L141.6 24.3L140.2 24.5L139.3 25.2L138.8 26.5L137.2 27.3L137.6 28.1L137.1 28.9L136.6 29.9L135.2 30L133.7 29.1L131.7 29.1L130.8 28.6L130.1 27.6L128.4 26.4L127.9 25.7L127.7 24.8L126.3 23.9L126.7 23.2L127 21.6L128.5 21.3L129.1 20.1L128 20.4L126.5 20.7L125.3 20.4L125.6 19.2L126.6 19.2L128.6 19.4L126.9 18.8L126 18.5L125 18.6L124.2 18.3L125.3 17.4L123.9 16.4L122.7 15.3L121.4 14.9L118.7 13.9L116.6 13.8L113.9 13.9L111.5 13.9L110.3 13.6L108.6 13L111.2 12.7L113.2 12.6L109 12.4L106.7 12L110.6 11.1L114.3 10.6L112 9.9L112.8 9.5L116.3 8.8L117.8 8.7L119.7 8L122.8 7.8L125.9 7.8L127 8.1L129.6 7.6L132 7.9L133.4 8L135.5 8.3L133.1 7.8L136.6 6.8L140.1 6.8L141.4 6.5L144.9 6.4L152.9 6.5Z"

diff --git a/src/screens/HomeScreen.tsx b/src/screens/HomeScreen.tsx
@@ -1,4 +1,5 @@
 import { Settings, Trophy } from "lucide-react"
+import { Globe } from "@/components/Globe"
 
 const TEXT = {
     tagline: "EXPLORA · JUEGA",
@@ -39,57 +40,6 @@ function Cloud({ className }: { className: string }) {
             <circle cx="32" cy="15" r="13" />
             <circle cx="49" cy="22" r="10" />
             <rect x="10" y="20" width="44" height="12" rx="6" />
-        </svg>
-    )
-}
-
-function Globe() {
-    return (
-        <svg viewBox="0 0 260 260" className="h-full w-full" aria-hidden="true">
-            <defs>
-                <radialGradient id="ocean" cx="35%" cy="30%" r="80%">
-                    <stop offset="0%" stopColor="#6fd6ff" />
-                    <stop offset="55%" stopColor="#1f93e6" />
-                    <stop offset="100%" stopColor="#0b5aa8" />
-                </radialGradient>
-                <clipPath id="globe-clip">
-                    <circle cx="130" cy="130" r="92" />
-                </clipPath>
-            </defs>
-
-            <circle cx="130" cy="130" r="126" fill="#4aa8ff" fillOpacity="0.1" />
-            <circle cx="130" cy="130" r="112" fill="#4aa8ff" fillOpacity="0.12" />
-            <ellipse
-                cx="130"
-                cy="136"
-                rx="128"
-                ry="30"
-                fill="none"
-                stroke="#ffffff"
-                strokeOpacity="0.28"
-                strokeWidth="1.5"
-                transform="rotate(-14 130 136)"
-            />
-            <circle cx="130" cy="130" r="100" fill="#e8f4ff" fillOpacity="0.9" />
-            <circle cx="130" cy="130" r="94" fill="url(#ocean)" />
-
-            <g clipPath="url(#globe-clip)" strokeWidth="8" strokeLinejoin="round">
-                <polygon points="62,86 82,74 96,84 90,102 70,104" fill="#8fdc4c" stroke="#8fdc4c" />
-                <polygon points="136,56 170,52 196,72 188,98 160,96 140,84" fill="#b3e955" stroke="#b3e955" />
-                <polygon points="172,112 196,108 208,136 196,176 176,186 166,152" fill="#9be04b" stroke="#9be04b" />
-                <polygon points="70,162 94,156 104,174 90,192 72,184" fill="#7fd04a" stroke="#7fd04a" />
-                <polygon points="112,120 130,114 138,134 124,150 108,140" fill="#8fdc4c" stroke="#8fdc4c" />
-                <ellipse
-                    cx="92"
-                    cy="72"
-                    rx="34"
-                    ry="14"
-                    fill="#ffffff"
-                    fillOpacity="0.3"
-                    stroke="none"
-                    transform="rotate(-28 92 72)"
-                />
-            </g>
         </svg>
     )
 }

diff --git a/src/components/Globe.tsx b/src/components/Globe.tsx
@@ -1,0 +1,69 @@
+import { LAND_PATH } from "@/data/land"
+
+const S = 1.2516
+const TX = -76.5
+const TY = 36.1
+
+export function Globe() {
+  return (
+    <svg viewBox="0 0 260 260" className="h-full w-full" aria-hidden="true">
+      <defs>
+        <radialGradient id="ocean" cx="35%" cy="30%" r="80%">
+          <stop offset="0%" stopColor="#6fd6ff" />
+          <stop offset="55%" stopColor="#1f93e6" />
+          <stop offset="100%" stopColor="#0b5aa8" />
+        </radialGradient>
+        <radialGradient id="shade" cx="38%" cy="32%" r="75%">
+          <stop offset="0" stopColor="#ffffff" stopOpacity="0.28" />
+          <stop offset="0.45" stopColor="#ffffff" stopOpacity="0" />
+          <stop offset="1" stopColor="#031447" stopOpacity="0.55" />
+        </radialGradient>
+        <clipPath id="globe-clip">
+          <circle cx="130" cy="130" r="94" />
+        </clipPath>
+        <path id="land" d={LAND_PATH} />
+      </defs>
+
+      <circle cx="130" cy="130" r="126" fill="#4aa8ff" fillOpacity="0.1" />
+      <circle cx="130" cy="130" r="112" fill="#4aa8ff" fillOpacity="0.12" />
+      <ellipse
+        cx="130"
+        cy="136"
+        rx="128"
+        ry="30"
+        fill="none"
+        stroke="#ffffff"
+        strokeOpacity="0.28"
+        strokeWidth="1.5"
+        transform="rotate(-14 130 136)"
+      />
+      <circle cx="130" cy="130" r="100" fill="#e8f4ff" fillOpacity="0.9" />
+      <circle cx="130" cy="130" r="94" fill="url(#ocean)" />
+
+      <g clipPath="url(#globe-clip)">
+        <g transform={`translate(${TX} ${TY}) scale(${S})`}>
+          <g className="earth-map">
+            <use
+              href="#land"
+              fill="#9be04b"
+              stroke="#9be04b"
+              strokeWidth="0.5"
+              strokeLinejoin="round"
+              fillRule="evenodd"
+            />
+            <use
+              href="#land"
+              x="360"
+              fill="#9be04b"
+              stroke="#9be04b"
+              strokeWidth="0.5"
+              strokeLinejoin="round"
+              fillRule="evenodd"
+            />
+          </g>
+        </g>
+        <circle cx="130" cy="130" r="94" fill="url(#shade)" />
+      </g>
+    </svg>
+  )
+}

diff --git a/src/index.css b/src/index.css
@@ -377,3 +377,14 @@
   .confetti-piece { display: none; }
   .banner-rise { animation-name: banner-fade; }
 }
+@keyframes earth-spin {
+  from { transform: translateX(-360px); }
+  to { transform: translateX(0); }
+}
+.earth-map {
+  animation: earth-spin 80s linear infinite;
+}
+
+@media (prefers-reduced-motion: reduce) {
+  .earth-map { animation: none; }
+}
